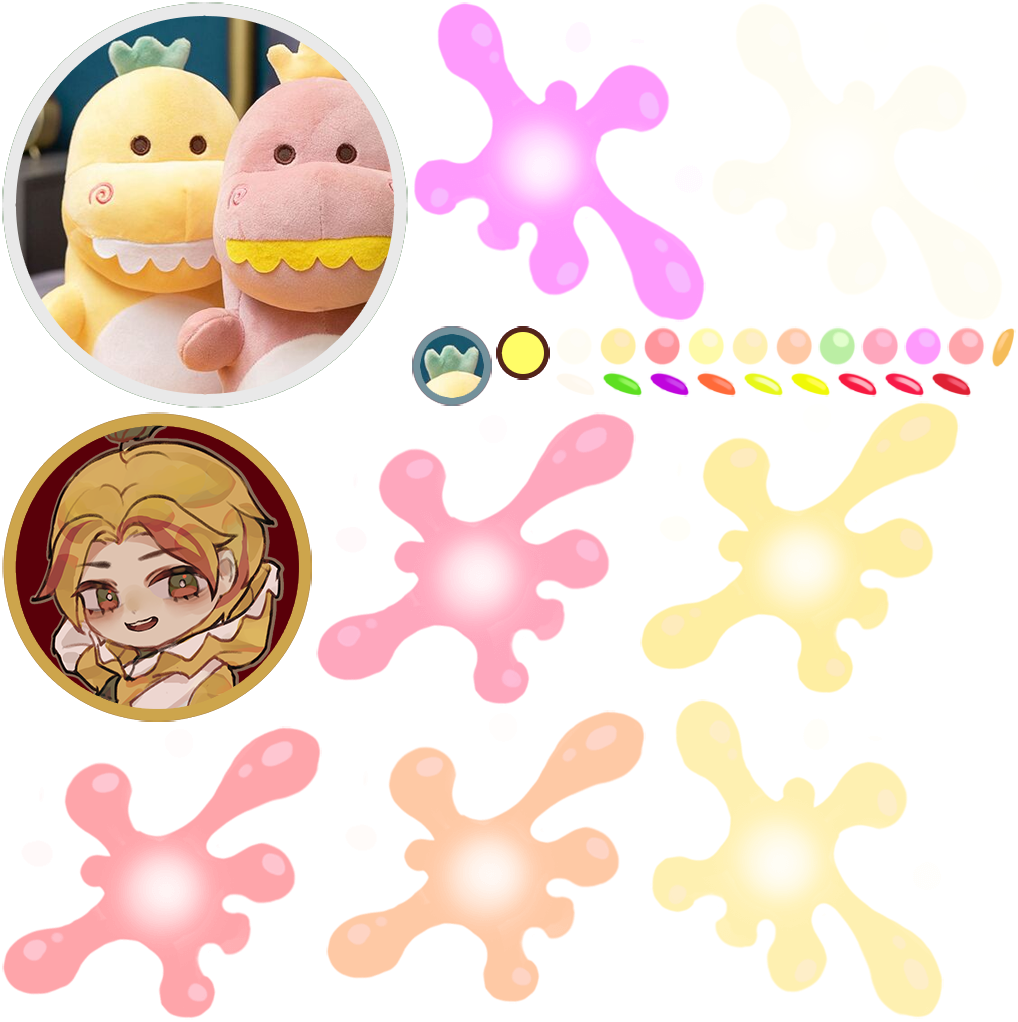
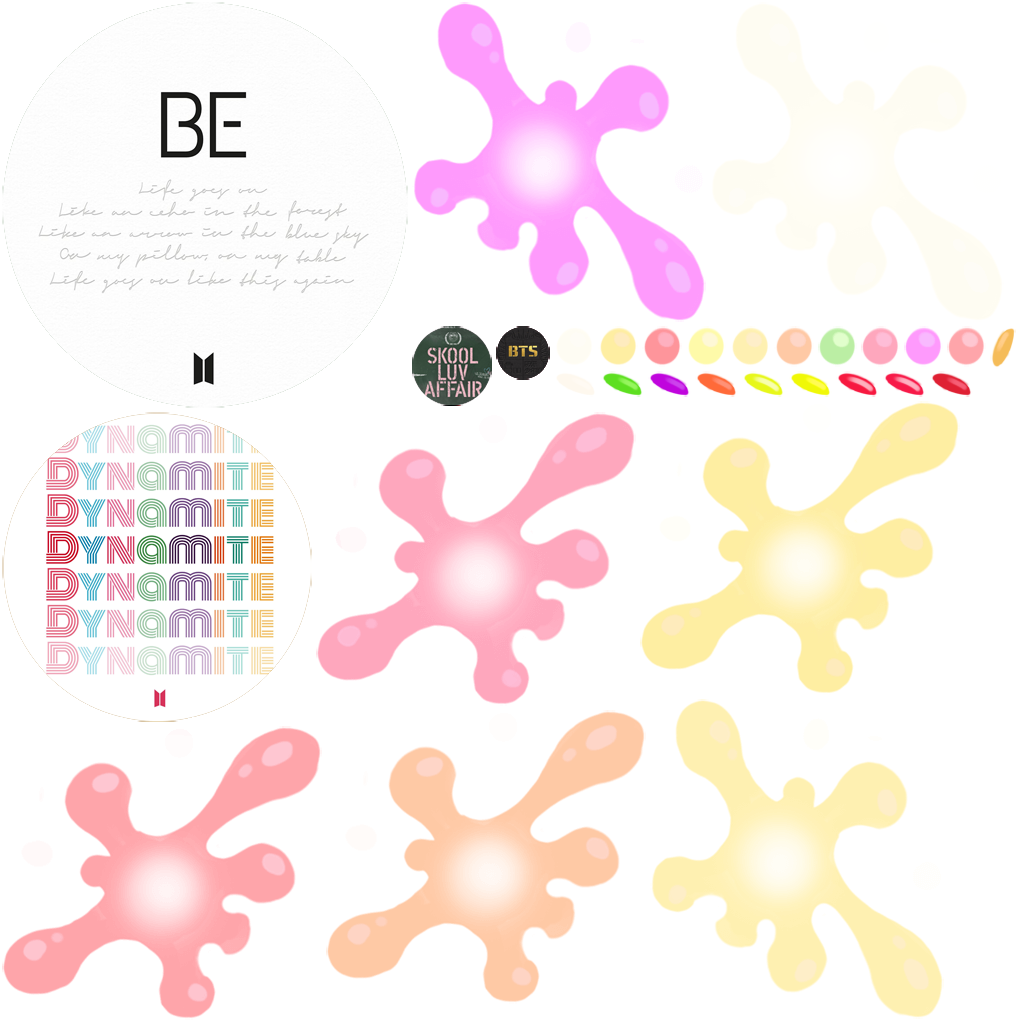
nitial commit

Changed region(s): [[0.0, 0.0, 0.3959, 0.728], [0.3959, 0.3033, 0.5481, 0.3943]]

diff --git a/index.html b/index.html
@@ -4,7 +4,7 @@
 <head>
     <meta charset="utf-8">
 
-    <title>合成大翠花</title>
+    <title>合成新专辑</title>
 
     <!--http://www.html5rocks.com/en/mobile/mobifying/-->
     <meta name="viewport" content="width=device-width,user-scalable=no,initial-scale=1, minimum-scale=1,maximum-scale=1" />
@@ -109,7 +109,7 @@
             //        console.log("window.navigator.language",window.navigator.language);
 
             if (window.navigator.language == "zh-CN" || window.navigator.language == "zh-cn") {
-                document.title = "合成大翠花";
+                document.title = "合成新专辑";
             } 
 
 
